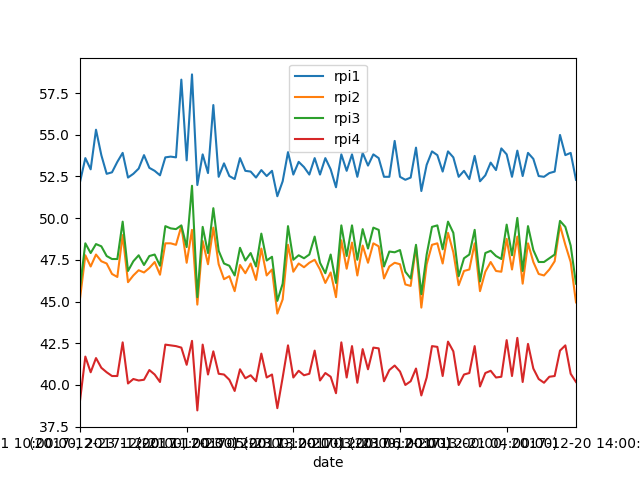
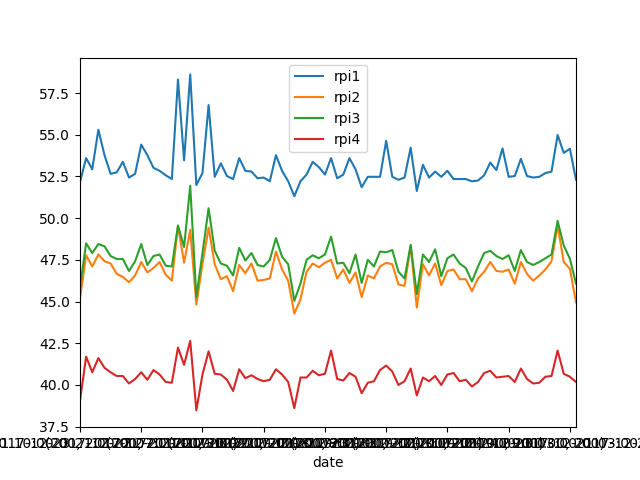
automated commit

Changed region(s): [[0.125, 0.1562, 0.9062, 0.6562], [0.125, 0.6875, 0.9062, 0.8438], [0.0, 0.9062, 1.0, 0.9375]]

diff --git a/python/system_monitor.py b/python/system_monitor.py
@@ -47,5 +47,6 @@ dta = pd.DataFrame(dta, columns=['date','rpi1','rpi2','rpi3','rpi4'])
 dta.index = dta['date']
 
 # # Generic plot
+plt.xticks(rotation=90)
 plot_hourly = dta.plot().get_figure()
 plot_hourly.savefig("/home/jeston/projects/pi-cluster/output/cpu.png")
